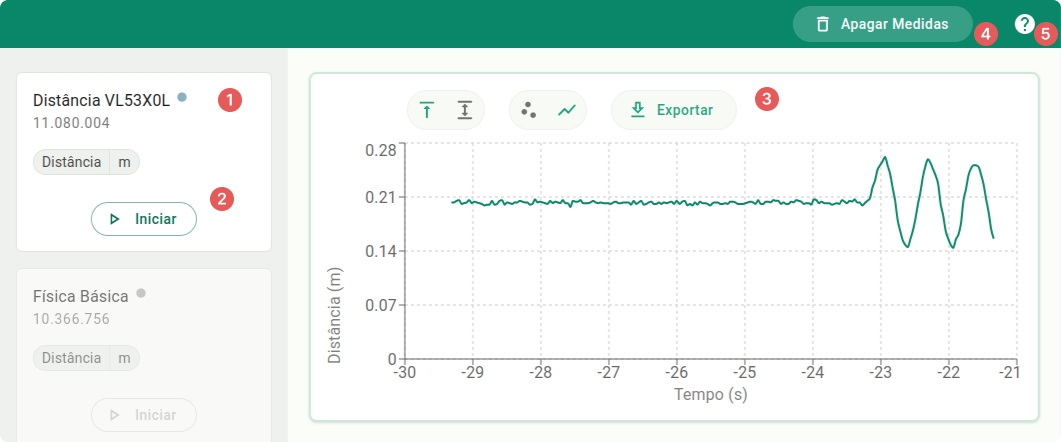
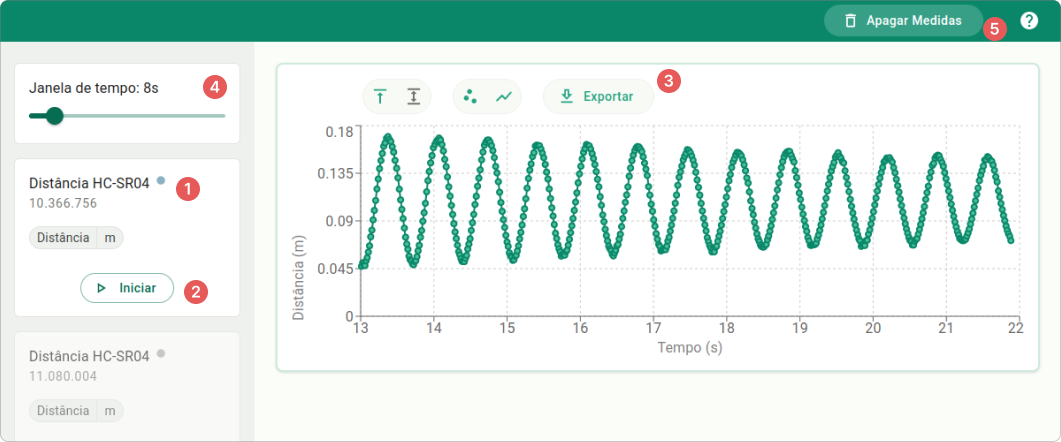
Feat: Atualiza as instruções do app para abordar o controle de janela com a imagem.

diff --git a/src/renderer/src/features/general/components/HelpModal/AppInstructions.tsx b/src/renderer/src/features/general/components/HelpModal/AppInstructions.tsx
@@ -31,19 +31,12 @@ export function AppInstructions(props: AppInstructionsProps) {
         </p>
         <p>
           Cada dispositivo é mostrado como um card, com o nome e seu número de
-          identificação único na parte superior e os sensores incluídos. Há dois
-          elementos para interação principais:
-          <ul style={{ listStyleType: 'disc' }}>
-            <li className="ml-8 mt-1">
-              O indicador de status (1), um pequeno círculo que muda de cor de
-              acordo com o estado do dispositivo. Passando o mouse sobre ele
-              você verá o status (ex: conectado, ocupado, etc).
-            </li>
-            <li className="ml-8 mt-1">
-              O botão <span className="font-medium text-primary">Iniciar</span>{' '}
-              (2), que conecta ao dispositivo e inicia as medições.
-            </li>
-          </ul>
+          identificação único na parte superior e os sensores incluídos. O{' '}
+          <span className="font-medium text-primary">indicador de status</span>{' '}
+          (1) muda de cor de acordo com o estado do dispositivo. Passando o
+          mouse sobre ele você verá o status (ex: conectado, ocupado, etc). O
+          botão <span className="font-medium text-primary">Iniciar</span> (2),
+          que conecta ao dispositivo e inicia as medições.
         </p>
         <p>
           Cada gráfico na tela possui um botão{' '}
@@ -54,13 +47,11 @@ export function AppInstructions(props: AppInstructionsProps) {
           valores de tempo negativo.
         </p>
         <p>
-          Na barra superior há o botão{' '}
-          <span className="font-medium text-primary">Apagar Medidas</span> (4)
-          caso deseje limpar os dados. Com controle da{' '}
-          <span className="font-medium text-primary">Janela de medição</span>{' '}
-          também é possível configurar o tamanho do intervalo que deseja
-          exportar. Além disso, há o botão de{' '}
-          <span className="font-medium text-primary">Ajuda</span> (5).
+          Você pode controlar os dados que deseja salvar/exportar utilizando o
+          controle da{' '}
+          <span className="font-medium text-primary">Janela de tempo</span> (4)
+          ou o botão{' '}
+          <span className="font-medium text-primary">Apagar Medidas</span> (5).
         </p>
       </div>
     </>
